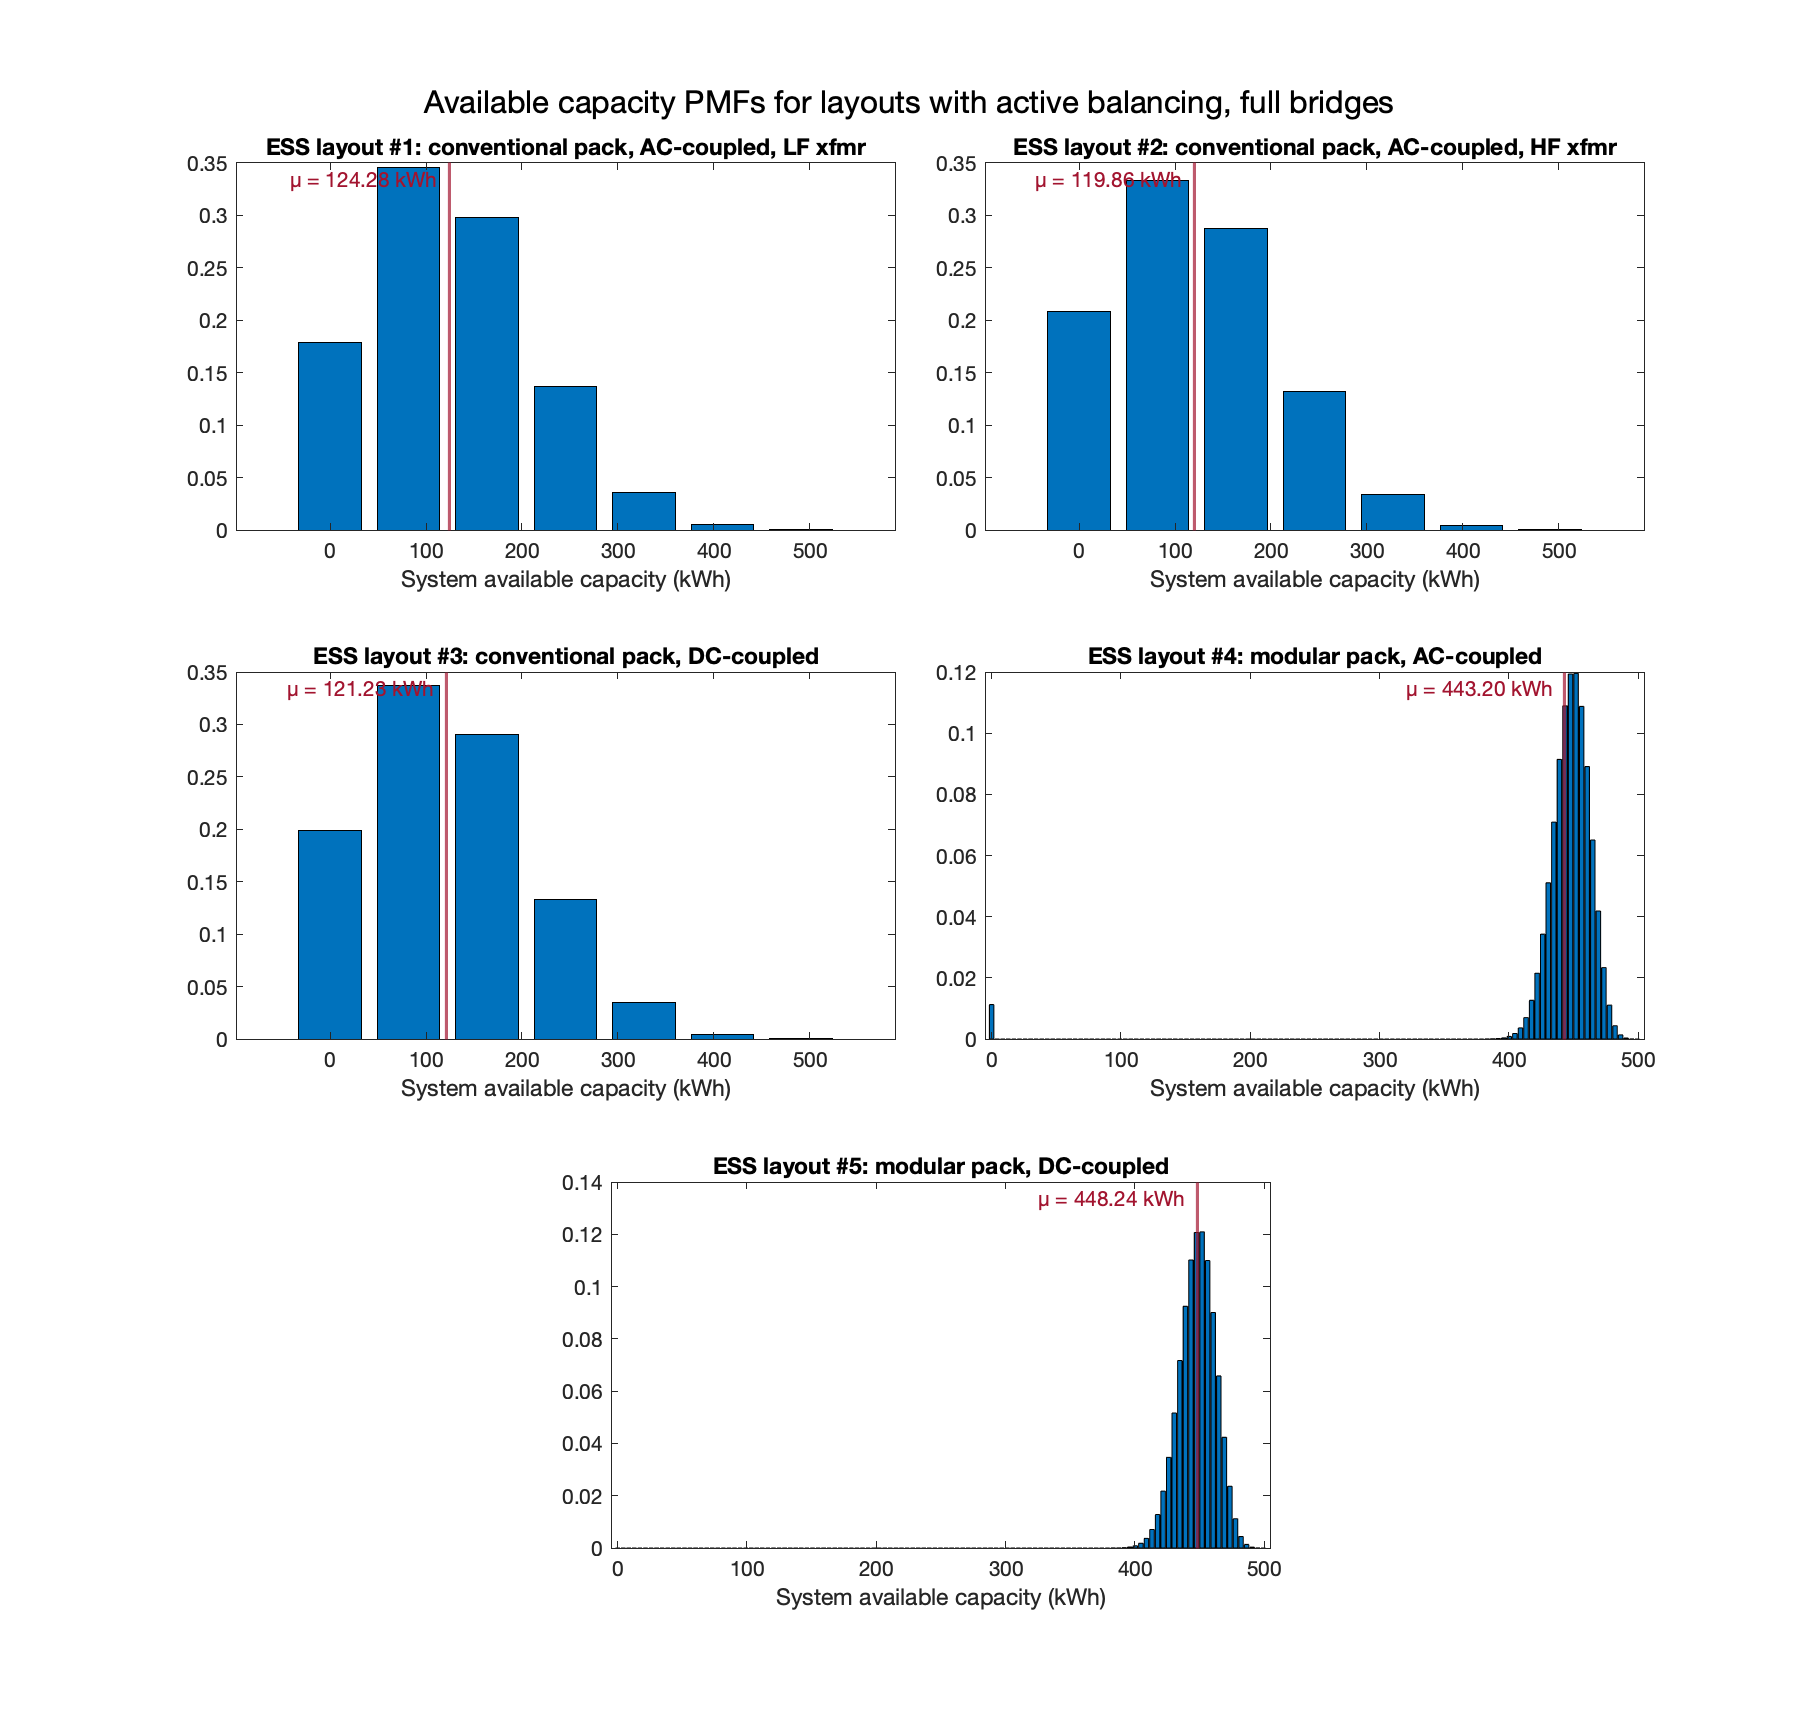
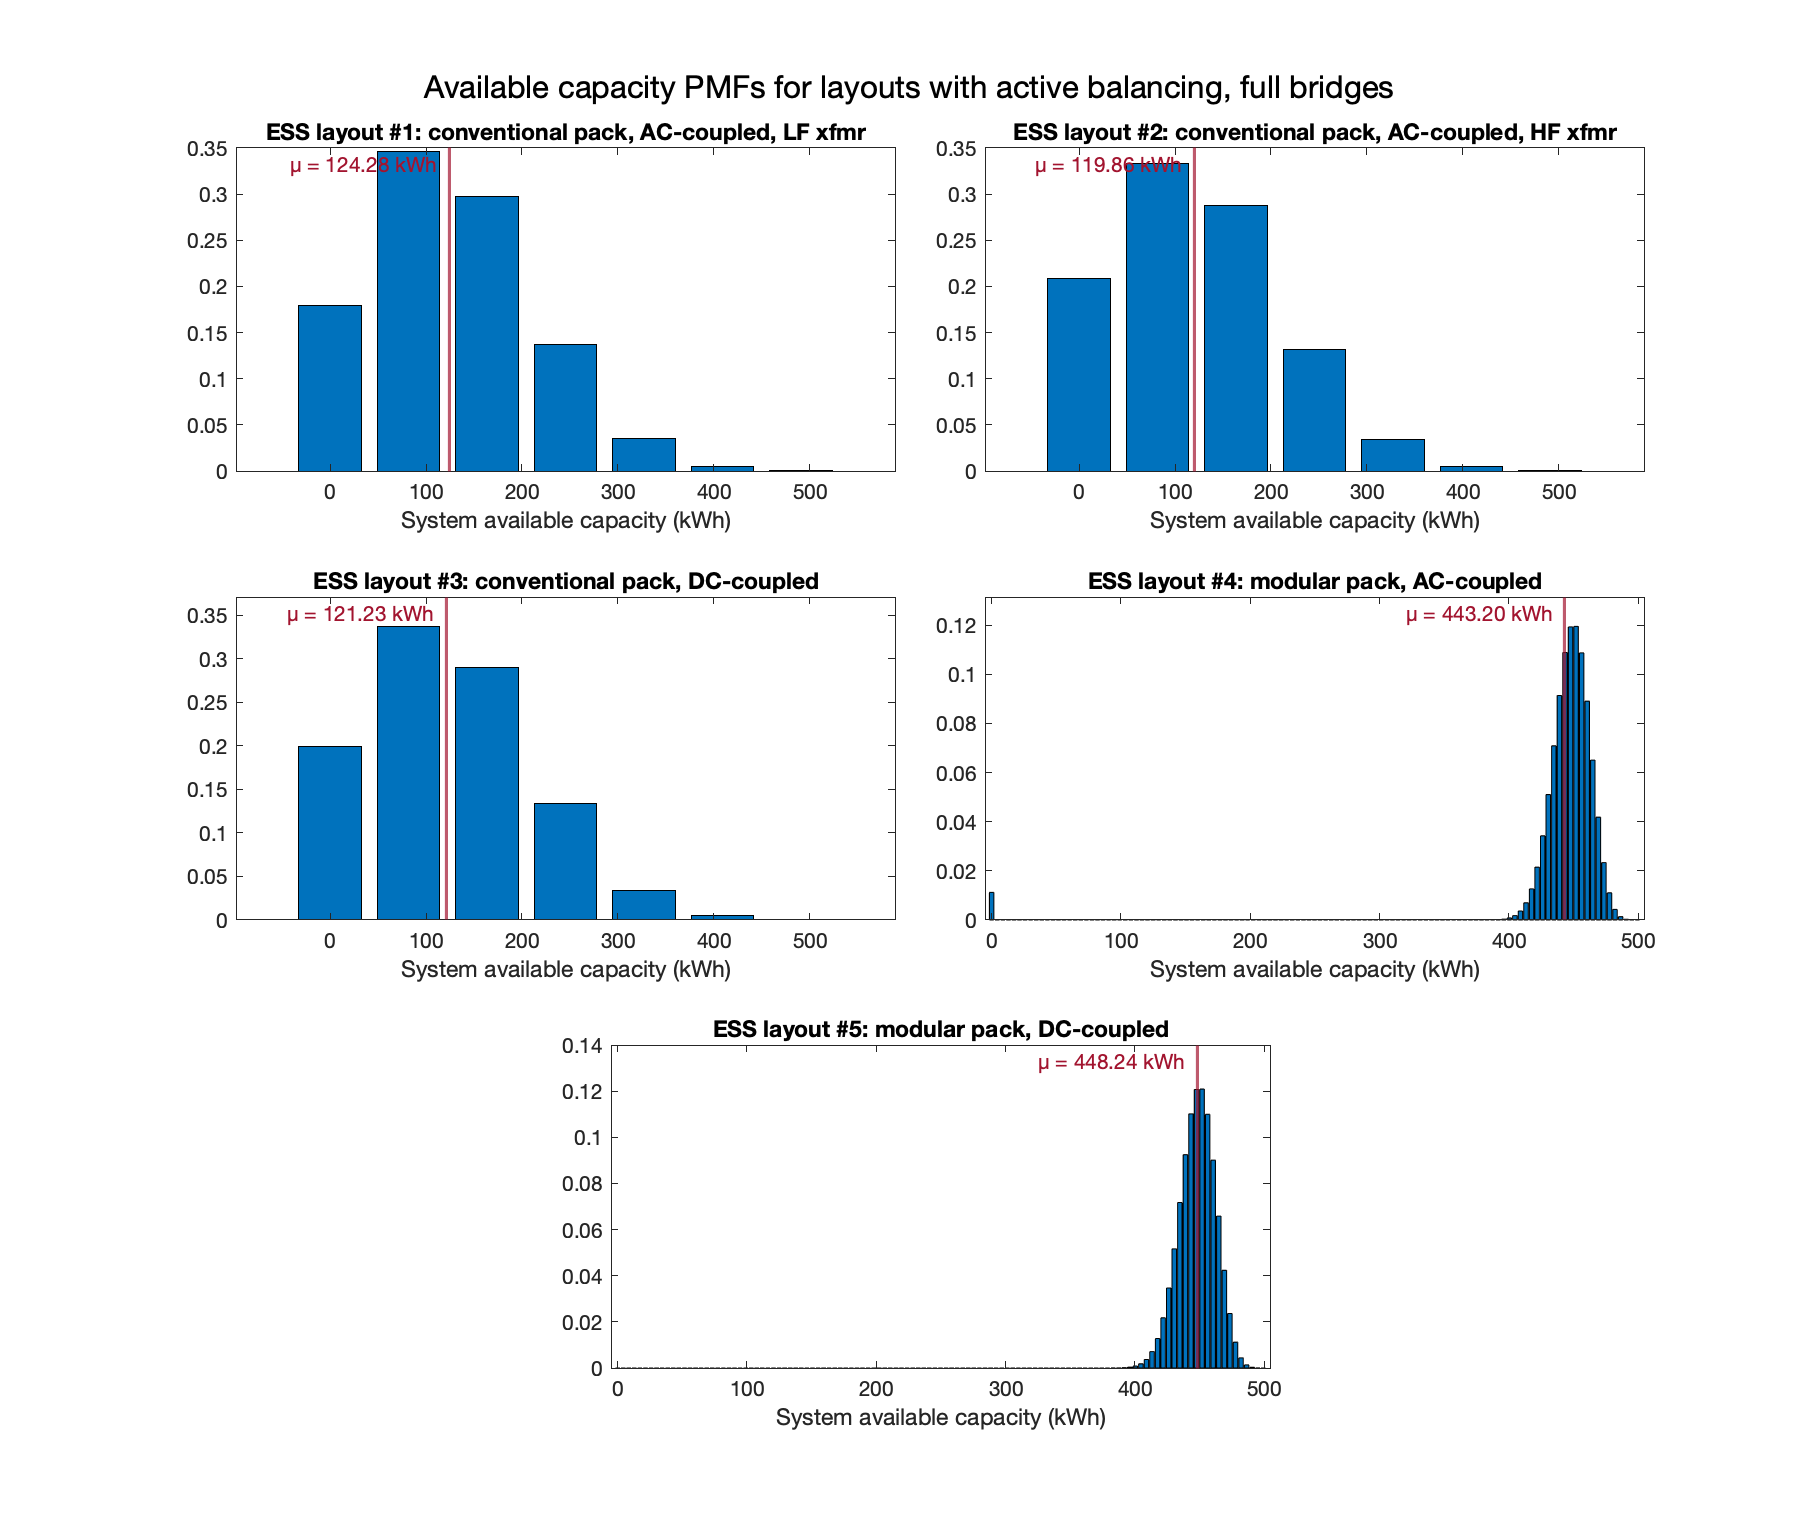
Re-ran analysis for 5 layouts, considering cell chem

diff --git a/reliability_calcs.m b/reliability_calcs.m
@@ -93,78 +93,114 @@ lambdaPB = nCapPB*L.lambdaC_bal + nDiodePB*L.lambdaDiode_bal + nMosfetPB*L.lambd
 
 Rpb = exp(-lambdaPB/scale*calHrs);
 
-%% Evaluate all 5 systems with passive balancing circuits, generate plot comparing the PMFs
+% %% Evaluate all 5 systems with passive balancing circuits, generate plot comparing the PMFs
+% 
+% [X1_PB, P1_PB] = get_ess1_sys_dist(kWhModule, kWhPack_conv, nBlockSer, nModSer_conv, ...
+%     nModPar_conv, Rpb, Rinv, Rxfmr);
+% 
+% [X2_PB, P2_PB] = get_ess2_sys_dist(kWhModule, kWhPack_conv, nBlockSer, nModSer_conv, ...
+%     nModPar_conv, Rpb, Rinv, Rcon);
+% 
+% [X3_PB, P3_PB] = get_ess3_sys_dist(kWhModule, kWhPack_conv, nBlockSer, nModSer_conv, ...
+%     nModPar_conv, Rpb, Rcon);
+% 
+% [X4_PB, P4_PB] = get_ess4_sys_dist(kWhModule, kWhPack_mod1, nBlockSer, nModSer_mod1, ...
+%     nModPar_mod1, Rpb, Rcon, Rinv);
+% 
+% [X5_PB, P5_PB] = get_ess5_sys_dist(kWhModule, kWhPack_mod1, nBlockSer, nModSer_mod1, ...
+%     nModPar_mod1, Rpb, Rcon);
+% 
+% X_PB = {X1_PB; X2_PB; X3_PB; X4_PB; X5_PB};
+% P_PB = {P1_PB; P2_PB; P3_PB; P4_PB; P5_PB};
+% 
+% [mus_PB, sigmas_PB] = get_dist_params(X_PB, P_PB);
+% 
+% f1 = make_5_bar_chart(X_PB, P_PB, mus_PB, 1);
+% 
+% %% Explore same 5 layouts with active balancing, half bridge circuits
+% [X1_HB, P1_HB] = get_ess1_sys_dist(kWhModule, kWhPack_conv, nBlockSer, nModSer_conv, ...
+%     nModPar_conv, Rab_hb, Rinv, Rxfmr);
+% 
+% [X2_HB, P2_HB] = get_ess2_sys_dist(kWhModule, kWhPack_conv, nBlockSer, nModSer_conv, ...
+%     nModPar_conv, Rab_hb, Rinv, Rcon);
+% 
+% [X3_HB, P3_HB] = get_ess3_sys_dist(kWhModule, kWhPack_conv, nBlockSer, nModSer_conv, ...
+%     nModPar_conv, Rab_hb, Rcon);
+% 
+% [X4_HB, P4_HB] = get_ess4_sys_dist(kWhModule, kWhPack_mod1, nBlockSer, nModSer_mod1, ...
+%     nModPar_mod1, Rab_hb, Rcon, Rinv);
+% 
+% [X5_HB, P5_HB] = get_ess5_sys_dist(kWhModule, kWhPack_mod1, nBlockSer, nModSer_mod1, ...
+%     nModPar_mod1, Rab_hb, Rcon);
+% 
+% X_HB = {X1_HB; X2_HB; X3_HB; X4_HB; X5_HB};
+% P_HB = {P1_HB; P2_HB; P3_HB; P4_HB; P5_HB};
+% 
+% [mus_HB, sigmas_HB] = get_dist_params(X_HB, P_HB);
+% 
+% f2 = make_5_bar_chart(X_HB, P_HB, mus_HB, 2);
+% 
+% %% Explore same 5 layouts with active balancing, full bridge circuits
+% [X1_FB, P1_FB] = get_ess1_sys_dist(kWhModule, kWhPack_conv, nBlockSer, nModSer_conv, ...
+%     nModPar_conv, Rab_fb, Rinv, Rxfmr);
+% 
+% [X2_FB, P2_FB] = get_ess2_sys_dist(kWhModule, kWhPack_conv, nBlockSer, nModSer_conv, ...
+%     nModPar_conv, Rab_fb, Rinv, Rcon);
+% 
+% [X3_FB, P3_FB] = get_ess3_sys_dist(kWhModule, kWhPack_conv, nBlockSer, nModSer_conv, ...
+%     nModPar_conv, Rab_fb, Rcon);
+% 
+% [X4_FB, P4_FB] = get_ess4_sys_dist(kWhModule, kWhPack_mod1, nBlockSer, nModSer_mod1, ...
+%     nModPar_mod1, Rab_fb, Rcon, Rinv);
+% 
+% [X5_FB, P5_FB] = get_ess5_sys_dist(kWhModule, kWhPack_mod1, nBlockSer, nModSer_mod1, ...
+%     nModPar_mod1, Rab_fb, Rcon);
+% 
+% X_FB = {X1_FB; X2_FB; X3_FB; X4_FB; X5_FB};
+% P_FB = {P1_FB; P2_FB; P3_FB; P4_FB; P5_FB};
+% 
+% [mus_FB, sigmas_FB] = get_dist_params(X_FB, P_FB);
+% 
+% f3 = make_5_bar_chart(X_FB, P_FB, mus_FB, 3);
+% 
+% %% Compare all cases (5 layouts, 3 balancing types) in a plot with mean and std dev of PMFs
+% mus = [mus_PB, mus_HB, mus_FB];
+% sigmas = [sigmas_PB, sigmas_HB, sigmas_FB]; 
+% 
+% f4 = make_summary_plot(mus, sigmas, 1);
+% 
+%% Explore impact of cell chemistry
+vCell = [2.5 3.65; 1.5 2.9; 1.2 2.5];
+X_cc = cell(5,3,3);
+P_cc = cell(5,3,3);
 
-[X1_PB, P1_PB] = get_ess1_sys_dist(kWhModule, kWhPack_conv, nBlockSer, nModSer_conv, ...
-    nModPar_conv, Rpb, Rinv, Rxfmr);
+mus_cc = zeros(5,3,3);
+sigmas_cc = zeros(5,3,3);
 
-[X2_PB, P2_PB] = get_ess2_sys_dist(kWhModule, kWhPack_conv, nBlockSer, nModSer_conv, ...
-    nModPar_conv, Rpb, Rinv, Rcon);
+bal = [Rpb; Rab_hb; Rab_fb];
 
-[X3_PB, P3_PB] = get_ess3_sys_dist(kWhModule, kWhPack_conv, nBlockSer, nModSer_conv, ...
-    nModPar_conv, Rpb, Rcon);
+for j = 1:3
+    Rbal = bal(j);
 
-[X4_PB, P4_PB] = get_ess4_sys_dist(kWhModule, kWhPack_mod1, nBlockSer, nModSer_mod1, ...
-    nModPar_mod1, Rpb, Rcon, Rinv);
+for i = 1:3
+    [nBlockSer, kWhModule, nModSer_conv, nModPar_conv, kWhPack_conv] = ...
+        get_conventional_layout(vCell(i,:), AhBal, kWhModule_desired, ...
+        kWhPack_desired, vModule_desired, vPack_desired_AC);
+    [nModPar_mod1, kWhPack_mod1] = get_modular_layout(kWhModule, nModSer_mod1, kWhPack_desired);
+    
+    [X_cc{1,i,j}, P_cc{1,i,j}] = get_ess1_sys_dist(kWhModule, kWhPack_conv, nBlockSer, ...
+        nModSer_conv, nModPar_conv, Rbal, Rinv, Rxfmr);
+    [X_cc{2, i,j}, P_cc{2,i,j}] = get_ess2_sys_dist(kWhModule, kWhPack_conv, nBlockSer, ...
+        nModSer_conv, nModPar_conv, Rbal, Rinv, Rcon);
+    [X_cc{3, i,j}, P_cc{3,i,j}] = get_ess3_sys_dist(kWhModule, kWhPack_conv, nBlockSer, ...
+        nModSer_conv, nModPar_conv, Rbal, Rcon);
+    [X_cc{4, i,j}, P_cc{4,i,j}] = get_ess4_sys_dist(kWhModule, kWhPack_mod1, nBlockSer, ...
+        nModSer_mod1, nModPar_mod1, Rbal, Rcon, Rinv);
+    [X_cc{5, i,j}, P_cc{5,i,j}] = get_ess5_sys_dist(kWhModule, kWhPack_mod1, nBlockSer, ...
+        nModSer_mod1, nModPar_mod1, Rbal, Rcon);
+    
+    [mus_cc(:,i,j), sigmas_cc(:,i,j)] = get_dist_params(X_cc(:,i,j), P_cc(:,i,j));
+end
 
-[X5_PB, P5_PB] = get_ess5_sys_dist(kWhModule, kWhPack_mod1, nBlockSer, nModSer_mod1, ...
-    nModPar_mod1, Rpb, Rcon);
-
-X_PB = {X1_PB; X2_PB; X3_PB; X4_PB; X5_PB};
-P_PB = {P1_PB; P2_PB; P3_PB; P4_PB; P5_PB};
-
-[mus_PB, sigmas_PB] = get_dist_params(X_PB, P_PB);
-
-f1 = make_5_bar_chart(X_PB, P_PB, mus_PB, 1);
-
-%% Explore same 5 layouts with active balancing, half bridge circuits
-[X1_HB, P1_HB] = get_ess1_sys_dist(kWhModule, kWhPack_conv, nBlockSer, nModSer_conv, ...
-    nModPar_conv, Rab_hb, Rinv, Rxfmr);
-
-[X2_HB, P2_HB] = get_ess2_sys_dist(kWhModule, kWhPack_conv, nBlockSer, nModSer_conv, ...
-    nModPar_conv, Rab_hb, Rinv, Rcon);
-
-[X3_HB, P3_HB] = get_ess3_sys_dist(kWhModule, kWhPack_conv, nBlockSer, nModSer_conv, ...
-    nModPar_conv, Rab_hb, Rcon);
-
-[X4_HB, P4_HB] = get_ess4_sys_dist(kWhModule, kWhPack_mod1, nBlockSer, nModSer_mod1, ...
-    nModPar_mod1, Rab_hb, Rcon, Rinv);
-
-[X5_HB, P5_HB] = get_ess5_sys_dist(kWhModule, kWhPack_mod1, nBlockSer, nModSer_mod1, ...
-    nModPar_mod1, Rab_hb, Rcon);
-
-X_HB = {X1_HB; X2_HB; X3_HB; X4_HB; X5_HB};
-P_HB = {P1_HB; P2_HB; P3_HB; P4_HB; P5_HB};
-
-[mus_HB, sigmas_HB] = get_dist_params(X_HB, P_HB);
-
-f2 = make_5_bar_chart(X_HB, P_HB, mus_HB, 2);
-
-%% Explore same 5 layouts with active balancing, full bridge circuits
-[X1_FB, P1_FB] = get_ess1_sys_dist(kWhModule, kWhPack_conv, nBlockSer, nModSer_conv, ...
-    nModPar_conv, Rab_fb, Rinv, Rxfmr);
-
-[X2_FB, P2_FB] = get_ess2_sys_dist(kWhModule, kWhPack_conv, nBlockSer, nModSer_conv, ...
-    nModPar_conv, Rab_fb, Rinv, Rcon);
-
-[X3_FB, P3_FB] = get_ess3_sys_dist(kWhModule, kWhPack_conv, nBlockSer, nModSer_conv, ...
-    nModPar_conv, Rab_fb, Rcon);
-
-[X4_FB, P4_FB] = get_ess4_sys_dist(kWhModule, kWhPack_mod1, nBlockSer, nModSer_mod1, ...
-    nModPar_mod1, Rab_fb, Rcon, Rinv);
-
-[X5_FB, P5_FB] = get_ess5_sys_dist(kWhModule, kWhPack_mod1, nBlockSer, nModSer_mod1, ...
-    nModPar_mod1, Rab_fb, Rcon);
-
-X_FB = {X1_FB; X2_FB; X3_FB; X4_FB; X5_FB};
-P_FB = {P1_FB; P2_FB; P3_FB; P4_FB; P5_FB};
-
-[mus_FB, sigmas_FB] = get_dist_params(X_FB, P_FB);
-
-f3 = make_5_bar_chart(X_FB, P_FB, mus_FB, 3);
-
-%% Compare all cases (5 layouts, 3 balancing types) in a plot with mean and std dev of PMFs
-mus = [mus_PB, mus_HB, mus_FB];
-sigmas = [sigmas_PB, sigmas_HB, sigmas_FB]; 
-
-f4 = make_summary_plot(mus, sigmas);
+ make_summary_plot(mus_cc(:,:,j), sigmas_cc(:,:,j), 2, j);
+end

diff --git a/make_summary_plot.m b/make_summary_plot.m
@@ -1,9 +1,9 @@
-function f = make_summary_plot(mus, sigmas)
-%UNTITLED3 Summary of this function goes here
-%   Detailed explanation goes here
-
+function f = make_summary_plot(mus, sigmas, type, balType)
+% Summarize 5 layouts with 3 variations each based on their mean and std
+% devs. Type indicates what we're comparing: 1 = balancing type, 2 = cell
+% chemistry.
 f = figure;
-b = bar(mus)
+b = bar(mus);
 hold on
 [ngroups, nbars] = size(mus);
 x = nan(nbars, ngroups);
@@ -15,8 +15,26 @@ errorbar(x', mus, sigmas, 'k', 'linestyle', 'none')
 set(gca, 'xticklabel', {'Layout 1'; 'Layout 2'; 'Layout 3'; 'Layout 4'; 'Layout 5'})
 ylim([0 max(mus+sigmas,[],'all')+10]);
 ylabel('Expected Output (kWh)')
-legend('PB', 'AB-HB', 'AB-FB', 'Location', 'southoutside', 'orientation', 'horizontal')
-saveas(f, 'compare_all.png')
+
+switch type
+    case 1
+        title('Expected available capacity for 5 layouts, considering balancing type')
+        legend('PB', 'AB-HB', 'AB-FB', 'Location', 'southoutside', 'orientation', 'horizontal')
+        saveas(f, 'compare_all_bal.png')
+    case 2
+        legend('K2 LFP/Graphite', 'LMO/LTO', 'LFP/LTO', 'Location', 'southoutside', 'orientation', 'horizontal')
+        switch balType
+            case 1
+                title('Expected available capacity for 5 layouts, considering cell chemistry (Passive balancing)')
+                saveas(f, 'compare_all_chem_PB.png')
+            case 2
+                title('Expected available capacity for 5 layouts, considering cell chemistry (Active balancing-half bridge)')
+                saveas(f, 'compare_all_chem_HB.png')
+            case 3
+                title('Expected available capacity for 5 layouts, considering cell chemistry (Active balancing-full bridges)')
+                 saveas(f, 'compare_all_chem_FB.png')
+        end
+end
 % 
 % mus = reshape(mus', [ngroups*nbars 1]);
 % x = reshape(x, size(mus));

diff --git a/make_5_bar_chart.m b/make_5_bar_chart.m
@@ -37,18 +37,21 @@ xlabel('System available capacity (kWh)')
 
 subplot(3,4,[5 6])
 bar(X3, P3)
+ylim([0 max(P3)+max(P3)/10])
 title('ESS layout #3: conventional pack, DC-coupled');
 xline(mus(3), 'Color','#A2142F', 'Label',sprintf('μ = %0.2f kWh', mus(3)),'LineWidth', 1.5, 'LabelOrientation', 'horizontal', 'LabelHorizontalAlignment', 'left')
 xlabel('System available capacity (kWh)')
 
 subplot(3,4,[7 8])
 bar(X4, P4)
+ylim([0 max(P4)+max(P4)/10])
 title('ESS layout #4: modular pack, AC-coupled');
 xline(mus(4), 'Color','#A2142F', 'Label',sprintf('μ = %0.2f kWh', mus(4)),'LineWidth', 1.5, 'LabelOrientation', 'horizontal', 'LabelHorizontalAlignment', 'left')
 xlabel('System available capacity (kWh)')
 
 subplot(3,4,[10 11])
 bar(X5, P5)
+% xlim([min(X5(P5>1e-10)) inf])
 title('ESS layout #5: modular pack, DC-coupled');
 xline(mus(5), 'Color','#A2142F', 'Label',sprintf('μ = %0.2f kWh', mus(5)),'LineWidth', 1.5, 'LabelOrientation', 'horizontal', 'LabelHorizontalAlignment', 'left')
 xlabel('System available capacity (kWh)')

diff --git a/get_ess5_sys_dist.m b/get_ess5_sys_dist.m
@@ -1,5 +1,5 @@
 function [X, P] = get_ess5_sys_dist(kWhModule, kWhPack, nBlockSer, ...
-    nModSer, nModPar, Rbal, Rconv)
+    nModSer, nModPar, Rbal, Rcon)
 % The purpose of this function is to return the distribution X,P for the DC
 % layout: DC pack, no inverter
 
@@ -9,7 +9,7 @@ Xbal = nModSer * [0 kWhModule];
 [Xmod, Pmod] = n_same_system_series(nBlockSer, Xbal, Pbal);
 [Xstring, Pstring] = n_same_system_series(nModSer, Xmod, Pmod);
 
-Pconv = [1-Rconv Rconv];
+Pconv = [1-Rcon Rcon];
 Xconv = nModSer * [0 kWhModule];
 [Xpod, Ppod] = diff_systems_series(Xstring, Pstring, Xconv, Pconv);
 
